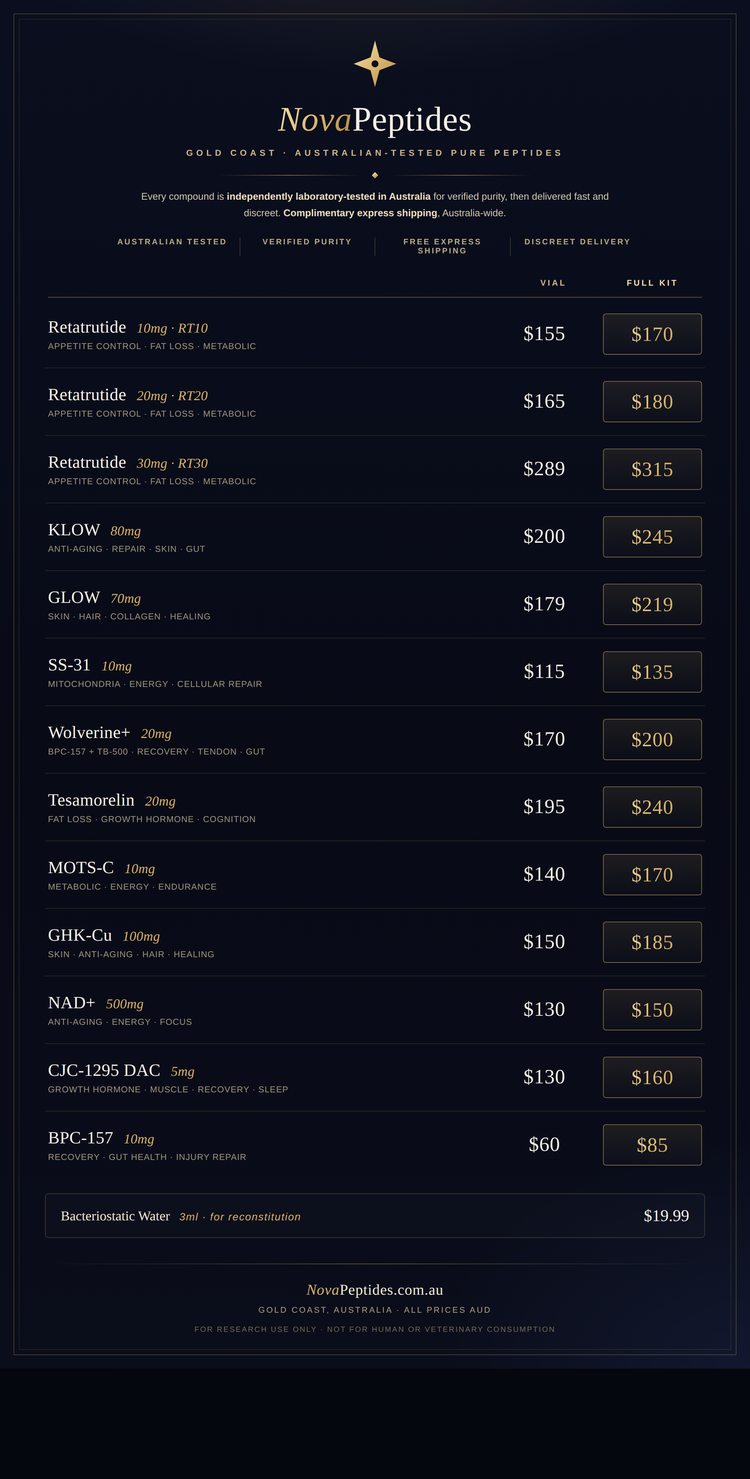
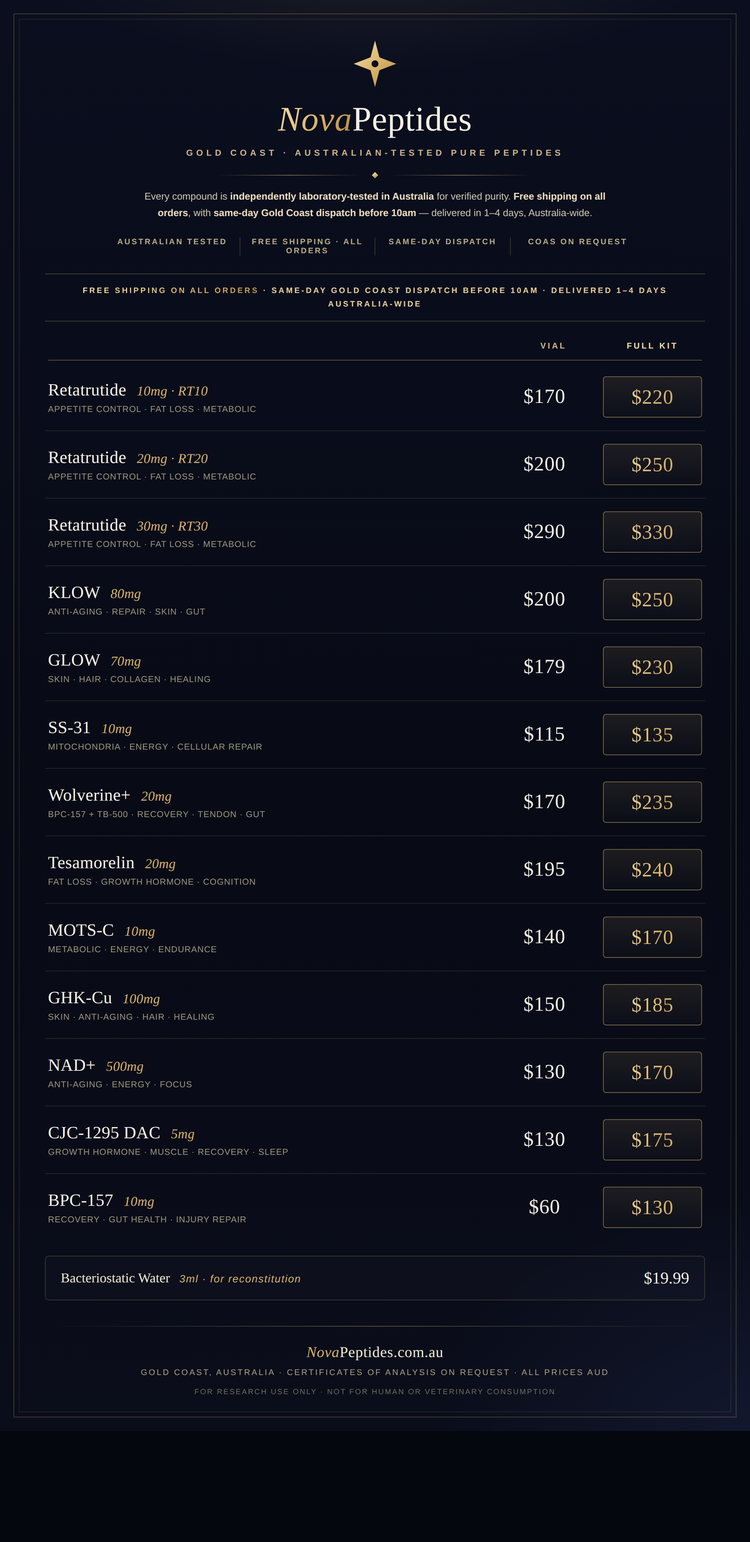
NovaPeptides: new retail pricing + luxe price form with free-shipping/dispatch/COA messaging
- Reta RT10 $170/$220, RT20 $200/$250, RT30 $290/$330
- Kit lifts: KLOW $250, GLOW $230, Wolverine+ $235, NAD+ $170, CJC $175, BPC-157 $130
- Luxe price list: free shipping all orders, same-day Gold Coast dispatch before 10am, COAs on request, 1-4 day delivery
- Propagated to dashboard, sales log, /nova catalogue, CSV and bright price list; totals recomputed

Claude-Session: https://claude.ai/code/session_011vwkpM9KQ6PKS1DsXGJwTK

diff --git a/docs/index.html b/docs/index.html
@@ -90,13 +90,13 @@
     <div class="kpis">
       <div class="kpi accent">
         <div class="label">Retail &mdash; all vials</div>
-        <div class="val">A$27,080</div>
-        <div class="sub">profit A$21,788</div>
+        <div class="val">A$27,740</div>
+        <div class="sub">profit A$22,448</div>
       </div>
       <div class="kpi accent">
         <div class="label">Retail &mdash; all kits</div>
-        <div class="val">A$31,990</div>
-        <div class="sub">profit A$22,797</div>
+        <div class="val">A$35,350</div>
+        <div class="sub">profit A$26,157</div>
       </div>
       <div class="kpi">
         <div class="label">Cost of goods (current pricing)</div>
@@ -148,33 +148,33 @@
       <h3>Reta RT30</h3>
       <div class="pcost">Peptide cost <b>A$45.00</b>/vial (shipping incl)</div>
       <div class="variant"><div class="vleft"><span class="vtag vial">Vial</span>
-        <div class="vmeta">Retail A$289 &middot; cost A$45.00 &middot; <span class="mg">84%</span></div></div>
-        <div class="vprofit"><span class="plabel">Pure profit</span>A$244.00</div></div>
+        <div class="vmeta">Retail A$290 &middot; cost A$45.00 &middot; <span class="mg">84%</span></div></div>
+        <div class="vprofit"><span class="plabel">Pure profit</span>A$245.00</div></div>
       <div class="variant"><div class="vleft"><span class="vtag kit">Kit</span>
-        <div class="vmeta">Retail A$315 &middot; cost A$67.95 (peptide + parts A$22.95) &middot; <span class="mg">78%</span></div></div>
-        <div class="vprofit"><span class="plabel">Pure profit</span>A$247.05</div></div>
+        <div class="vmeta">Retail A$330 &middot; cost A$67.95 (peptide + parts A$22.95) &middot; <span class="mg">79%</span></div></div>
+        <div class="vprofit"><span class="plabel">Pure profit</span>A$262.05</div></div>
     </div>
 
     <div class="pcard">
-      <h3>Reta RT20 <span style="font-size:11px;color:var(--violet);font-weight:800">new</span></h3>
+      <h3>Reta RT20</h3>
       <div class="pcost">Peptide cost <b>A$25.00</b>/vial (shipping incl)</div>
       <div class="variant"><div class="vleft"><span class="vtag vial">Vial</span>
-        <div class="vmeta">Retail A$165 &middot; cost A$25.00 &middot; <span class="mg">85%</span></div></div>
-        <div class="vprofit"><span class="plabel">Pure profit</span>A$140.00</div></div>
+        <div class="vmeta">Retail A$200 &middot; cost A$25.00 &middot; <span class="mg">88%</span></div></div>
+        <div class="vprofit"><span class="plabel">Pure profit</span>A$175.00</div></div>
       <div class="variant"><div class="vleft"><span class="vtag kit">Kit</span>
-        <div class="vmeta">Retail A$180 &middot; cost A$47.95 (peptide + parts A$22.95) &middot; <span class="mg">73%</span></div></div>
-        <div class="vprofit"><span class="plabel">Pure profit</span>A$132.05</div></div>
+        <div class="vmeta">Retail A$250 &middot; cost A$47.95 (peptide + parts A$22.95) &middot; <span class="mg">81%</span></div></div>
+        <div class="vprofit"><span class="plabel">Pure profit</span>A$202.05</div></div>
     </div>
 
     <div class="pcard">
       <h3>Reta RT10</h3>
       <div class="pcost">Peptide cost <b>A$14.25</b>/vial (shipping incl &middot; blended over 20)</div>
       <div class="variant"><div class="vleft"><span class="vtag vial">Vial</span>
-        <div class="vmeta">Retail A$155 &middot; cost A$14.25 &middot; <span class="mg">91%</span></div></div>
-        <div class="vprofit"><span class="plabel">Pure profit</span>A$140.75</div></div>
+        <div class="vmeta">Retail A$170 &middot; cost A$14.25 &middot; <span class="mg">92%</span></div></div>
+        <div class="vprofit"><span class="plabel">Pure profit</span>A$155.75</div></div>
       <div class="variant"><div class="vleft"><span class="vtag kit">Kit</span>
-        <div class="vmeta">Retail A$170 &middot; cost A$37.20 (peptide + parts A$22.95) &middot; <span class="mg">78%</span></div></div>
-        <div class="vprofit"><span class="plabel">Pure profit</span>A$132.80</div></div>
+        <div class="vmeta">Retail A$220 &middot; cost A$37.20 (peptide + parts A$22.95) &middot; <span class="mg">83%</span></div></div>
+        <div class="vprofit"><span class="plabel">Pure profit</span>A$182.80</div></div>
     </div>
 
     <div class="pcard">
@@ -184,8 +184,8 @@
         <div class="vmeta">Retail A$200 &middot; cost A$40.00 &middot; <span class="mg">80%</span></div></div>
         <div class="vprofit"><span class="plabel">Pure profit</span>A$160.00</div></div>
       <div class="variant"><div class="vleft"><span class="vtag kit">Kit</span>
-        <div class="vmeta">Retail A$245 &middot; cost A$62.95 (peptide + parts A$22.95) &middot; <span class="mg">74%</span></div></div>
-        <div class="vprofit"><span class="plabel">Pure profit</span>A$182.05</div></div>
+        <div class="vmeta">Retail A$250 &middot; cost A$62.95 (peptide + parts A$22.95) &middot; <span class="mg">75%</span></div></div>
+        <div class="vprofit"><span class="plabel">Pure profit</span>A$187.05</div></div>
     </div>
 
     <div class="pcard">
@@ -195,8 +195,8 @@
         <div class="vmeta">Retail A$179 &middot; cost A$35.00 &middot; <span class="mg">80%</span></div></div>
         <div class="vprofit"><span class="plabel">Pure profit</span>A$144.00</div></div>
       <div class="variant"><div class="vleft"><span class="vtag kit">Kit</span>
-        <div class="vmeta">Retail A$219 &middot; cost A$57.95 (peptide + parts A$22.95) &middot; <span class="mg">74%</span></div></div>
-        <div class="vprofit"><span class="plabel">Pure profit</span>A$161.05</div></div>
+        <div class="vmeta">Retail A$230 &middot; cost A$57.95 (peptide + parts A$22.95) &middot; <span class="mg">75%</span></div></div>
+        <div class="vprofit"><span class="plabel">Pure profit</span>A$172.05</div></div>
     </div>
 
     <div class="pcard">
@@ -217,8 +217,8 @@
         <div class="vmeta">Retail A$170 &middot; cost A$45.00 &middot; <span class="mg">74%</span></div></div>
         <div class="vprofit"><span class="plabel">Pure profit</span>A$125.00</div></div>
       <div class="variant"><div class="vleft"><span class="vtag kit">Kit</span>
-        <div class="vmeta">Retail A$200 &middot; cost A$67.95 (peptide + parts A$22.95) &middot; <span class="mg">66%</span></div></div>
-        <div class="vprofit"><span class="plabel">Pure profit</span>A$132.05</div></div>
+        <div class="vmeta">Retail A$235 &middot; cost A$67.95 (peptide + parts A$22.95) &middot; <span class="mg">71%</span></div></div>
+        <div class="vprofit"><span class="plabel">Pure profit</span>A$167.05</div></div>
     </div>
 
     <div class="pcard">
@@ -250,8 +250,8 @@
         <div class="vmeta">Retail A$130 &middot; cost A$22.50 &middot; <span class="mg">83%</span></div></div>
         <div class="vprofit"><span class="plabel">Pure profit</span>A$107.50</div></div>
       <div class="variant"><div class="vleft"><span class="vtag kit">Kit</span>
-        <div class="vmeta">Retail A$150 &middot; cost A$45.45 (peptide + parts A$22.95) &middot; <span class="mg">70%</span></div></div>
-        <div class="vprofit"><span class="plabel">Pure profit</span>A$104.55</div></div>
+        <div class="vmeta">Retail A$170 &middot; cost A$45.45 (peptide + parts A$22.95) &middot; <span class="mg">73%</span></div></div>
+        <div class="vprofit"><span class="plabel">Pure profit</span>A$124.55</div></div>
     </div>
 
     <div class="pcard">
@@ -261,8 +261,8 @@
         <div class="vmeta">Retail A$130 &middot; cost A$24.66 &middot; <span class="mg">81%</span></div></div>
         <div class="vprofit"><span class="plabel">Pure profit</span>A$105.34</div></div>
       <div class="variant"><div class="vleft"><span class="vtag kit">Kit</span>
-        <div class="vmeta">Retail A$160 &middot; cost A$47.61 (peptide + parts A$22.95) &middot; <span class="mg">70%</span></div></div>
-        <div class="vprofit"><span class="plabel">Pure profit</span>A$112.39</div></div>
+        <div class="vmeta">Retail A$175 &middot; cost A$47.61 (peptide + parts A$22.95) &middot; <span class="mg">73%</span></div></div>
+        <div class="vprofit"><span class="plabel">Pure profit</span>A$127.39</div></div>
     </div>
 
     <div class="pcard">
@@ -283,8 +283,8 @@
         <div class="vmeta">Retail A$60 &middot; cost A$18.00 &middot; <span class="mg">70%</span></div></div>
         <div class="vprofit"><span class="plabel">Pure profit</span>A$42.00</div></div>
       <div class="variant"><div class="vleft"><span class="vtag kit">Kit</span>
-        <div class="vmeta">Retail A$85 &middot; cost A$40.95 (peptide + parts A$22.95) &middot; <span class="mg">52%</span></div></div>
-        <div class="vprofit"><span class="plabel">Pure profit</span>A$44.05</div></div>
+        <div class="vmeta">Retail A$130 &middot; cost A$40.95 (peptide + parts A$22.95) &middot; <span class="mg">69%</span></div></div>
+        <div class="vprofit"><span class="plabel">Pure profit</span>A$89.05</div></div>
     </div>
 
   </div>

diff --git a/pricing/price-list-luxe.html b/pricing/price-list-luxe.html
@@ -40,8 +40,14 @@
     text-transform:uppercase;color:#b6a984;font-weight:700;padding:0 8px}
   .trust .t + .t{border-left:1px solid rgba(214,178,108,.22)}
 
+  /* shipping ribbon */
+  .ribbon{margin:24px 0 0;text-align:center;font-family:Arial,Helvetica,sans-serif;font-size:10.5px;
+    letter-spacing:2.4px;text-transform:uppercase;color:#e6cf9a;font-weight:700;
+    border-top:1px solid rgba(214,178,108,.28);border-bottom:1px solid rgba(214,178,108,.28);padding:13px 8px;line-height:1.7}
+  .ribbon .free{background:linear-gradient(120deg,#f6e2ad,#d8b26a 60%,#c49a4f);-webkit-background-clip:text;background-clip:text;color:transparent}
+
   /* column header */
-  .colh{display:flex;align-items:flex-end;margin:30px 4px 4px;padding-bottom:12px;border-bottom:1px solid rgba(214,178,108,.4)}
+  .colh{display:flex;align-items:flex-end;margin:26px 4px 4px;padding-bottom:12px;border-bottom:1px solid rgba(214,178,108,.4)}
   .colh .sp{flex:1}
   .colh .c{width:132px;text-align:center;font-family:Arial,Helvetica,sans-serif;font-size:11px;letter-spacing:2.5px;
     text-transform:uppercase;color:#cbb489;font-weight:700}
@@ -96,40 +102,43 @@
 
         <div class="rule"><span class="ln"></span><span class="dot"></span><span class="ln"></span></div>
 
-        <div class="lede">Every compound is <b>independently laboratory-tested in Australia</b> for verified purity,
-        then delivered fast and discreet. <b>Complimentary express shipping</b>, Australia-wide.</div>
+        <div class="lede">Every compound is <b>independently laboratory-tested in Australia</b> for verified purity.
+        <b>Free shipping on all orders</b>, with <b>same-day Gold Coast dispatch before 10am</b> &mdash; delivered
+        in 1&ndash;4 days, Australia-wide.</div>
 
         <div class="trust">
           <div class="t">Australian Tested</div>
-          <div class="t">Verified Purity</div>
-          <div class="t">Free Express Shipping</div>
-          <div class="t">Discreet Delivery</div>
+          <div class="t">Free Shipping &middot; All Orders</div>
+          <div class="t">Same-Day Dispatch</div>
+          <div class="t">COAs On Request</div>
         </div>
       </div>
+
+      <div class="ribbon"><span class="free">Free Shipping on All Orders</span> &middot; Same-Day Gold Coast Dispatch Before 10am &middot; Delivered 1&ndash;4 Days Australia-Wide</div>
 
       <div class="colh"><span class="sp"></span><div class="c">Vial</div><div class="c kit">Full Kit</div></div>
 
       <div class="list">
         <div class="row"><div class="info"><div class="pname">Retatrutide <span class="mg">10mg &middot; RT10</span></div><div class="pben">Appetite control &middot; fat loss &middot; metabolic</div></div>
-          <div class="prices"><div class="pcell vial"><div class="amt">$155</div></div><div class="pcell kit"><div class="amt">$170</div></div></div></div>
+          <div class="prices"><div class="pcell vial"><div class="amt">$170</div></div><div class="pcell kit"><div class="amt">$220</div></div></div></div>
 
         <div class="row"><div class="info"><div class="pname">Retatrutide <span class="mg">20mg &middot; RT20</span></div><div class="pben">Appetite control &middot; fat loss &middot; metabolic</div></div>
-          <div class="prices"><div class="pcell vial"><div class="amt">$165</div></div><div class="pcell kit"><div class="amt">$180</div></div></div></div>
+          <div class="prices"><div class="pcell vial"><div class="amt">$200</div></div><div class="pcell kit"><div class="amt">$250</div></div></div></div>
 
         <div class="row"><div class="info"><div class="pname">Retatrutide <span class="mg">30mg &middot; RT30</span></div><div class="pben">Appetite control &middot; fat loss &middot; metabolic</div></div>
-          <div class="prices"><div class="pcell vial"><div class="amt">$289</div></div><div class="pcell kit"><div class="amt">$315</div></div></div></div>
+          <div class="prices"><div class="pcell vial"><div class="amt">$290</div></div><div class="pcell kit"><div class="amt">$330</div></div></div></div>
 
         <div class="row"><div class="info"><div class="pname">KLOW <span class="mg">80mg</span></div><div class="pben">Anti-aging &middot; repair &middot; skin &middot; gut</div></div>
-          <div class="prices"><div class="pcell vial"><div class="amt">$200</div></div><div class="pcell kit"><div class="amt">$245</div></div></div></div>
+          <div class="prices"><div class="pcell vial"><div class="amt">$200</div></div><div class="pcell kit"><div class="amt">$250</div></div></div></div>
 
         <div class="row"><div class="info"><div class="pname">GLOW <span class="mg">70mg</span></div><div class="pben">Skin &middot; hair &middot; collagen &middot; healing</div></div>
-          <div class="prices"><div class="pcell vial"><div class="amt">$179</div></div><div class="pcell kit"><div class="amt">$219</div></div></div></div>
+          <div class="prices"><div class="pcell vial"><div class="amt">$179</div></div><div class="pcell kit"><div class="amt">$230</div></div></div></div>
 
         <div class="row"><div class="info"><div class="pname">SS-31 <span class="mg">10mg</span></div><div class="pben">Mitochondria &middot; energy &middot; cellular repair</div></div>
           <div class="prices"><div class="pcell vial"><div class="amt">$115</div></div><div class="pcell kit"><div class="amt">$135</div></div></div></div>
 
         <div class="row"><div class="info"><div class="pname">Wolverine+ <span class="mg">20mg</span></div><div class="pben">BPC-157 + TB-500 &middot; recovery &middot; tendon &middot; gut</div></div>
-          <div class="prices"><div class="pcell vial"><div class="amt">$170</div></div><div class="pcell kit"><div class="amt">$200</div></div></div></div>
+          <div class="prices"><div class="pcell vial"><div class="amt">$170</div></div><div class="pcell kit"><div class="amt">$235</div></div></div></div>
 
         <div class="row"><div class="info"><div class="pname">Tesamorelin <span class="mg">20mg</span></div><div class="pben">Fat loss &middot; growth hormone &middot; cognition</div></div>
           <div class="prices"><div class="pcell vial"><div class="amt">$195</div></div><div class="pcell kit"><div class="amt">$240</div></div></div></div>
@@ -141,13 +150,13 @@
           <div class="prices"><div class="pcell vial"><div class="amt">$150</div></div><div class="pcell kit"><div class="amt">$185</div></div></div></div>
 
         <div class="row"><div class="info"><div class="pname">NAD+ <span class="mg">500mg</span></div><div class="pben">Anti-aging &middot; energy &middot; focus</div></div>
-          <div class="prices"><div class="pcell vial"><div class="amt">$130</div></div><div class="pcell kit"><div class="amt">$150</div></div></div></div>
+          <div class="prices"><div class="pcell vial"><div class="amt">$130</div></div><div class="pcell kit"><div class="amt">$170</div></div></div></div>
 
         <div class="row"><div class="info"><div class="pname">CJC-1295 DAC <span class="mg">5mg</span></div><div class="pben">Growth hormone &middot; muscle &middot; recovery &middot; sleep</div></div>
-          <div class="prices"><div class="pcell vial"><div class="amt">$130</div></div><div class="pcell kit"><div class="amt">$160</div></div></div></div>
+          <div class="prices"><div class="pcell vial"><div class="amt">$130</div></div><div class="pcell kit"><div class="amt">$175</div></div></div></div>
 
         <div class="row"><div class="info"><div class="pname">BPC-157 <span class="mg">10mg</span></div><div class="pben">Recovery &middot; gut health &middot; injury repair</div></div>
-          <div class="prices"><div class="pcell vial"><div class="amt">$60</div></div><div class="pcell kit"><div class="amt">$85</div></div></div></div>
+          <div class="prices"><div class="pcell vial"><div class="amt">$60</div></div><div class="pcell kit"><div class="amt">$130</div></div></div></div>
       </div>
 
       <div class="bac"><div class="n">Bacteriostatic Water <i>3ml &middot; for reconstitution</i></div><div class="amt">$19.99</div></div>
@@ -155,7 +164,7 @@
       <div class="foot">
         <div class="ln"></div>
         <div class="site"><span class="n">Nova</span>Peptides.com.au</div>
-        <div class="meta">Gold Coast, Australia &middot; All prices AUD</div>
+        <div class="meta">Gold Coast, Australia &middot; Certificates of Analysis on request &middot; All prices AUD</div>
         <div class="ruo">For research use only &middot; Not for human or veterinary consumption</div>
       </div>
 

diff --git a/docs/nova.html b/docs/nova.html
@@ -200,44 +200,44 @@
 <script>
   // In-stock featured range (order = display order)
   const FEATURED = [
-    {n:'Retatrutide',mg:'10 / 20 / 30mg',tags:[['Fat loss','p-amber'],['Appetite','p-amber'],['Metabolic','p-amber']],vial:'from $155',kit:'from $170'},
+    {n:'Retatrutide',mg:'10 / 20 / 30mg',tags:[['Fat loss','p-amber'],['Appetite','p-amber'],['Metabolic','p-amber']],vial:'from $170',kit:'from $220'},
     {n:'Tesamorelin',mg:'20mg',tags:[['Fat loss','p-amber'],['Growth hormone','p-ind'],['Cognition','p-ind']],vial:'$195',kit:'$240'},
-    {n:'Wolverine+',mg:'20mg · BPC+TB',tags:[['Recovery','p-green'],['Injury repair','p-green'],['Tendon','p-green']],vial:'$170',kit:'$200'},
+    {n:'Wolverine+',mg:'20mg · BPC+TB',tags:[['Recovery','p-green'],['Injury repair','p-green'],['Tendon','p-green']],vial:'$170',kit:'$235'},
     {n:'GHK-Cu',mg:'100mg',tags:[['Skin','p-pink'],['Anti-aging','p-pink'],['Healing','p-green']],vial:'$150',kit:'$185'},
-    {n:'KLOW',mg:'80mg blend',tags:[['Anti-aging','p-pink'],['Repair','p-green'],['Gut health','p-green']],vial:'$200',kit:'$245'},
-    {n:'GLOW',mg:'70mg blend',tags:[['Skin','p-pink'],['Hair','p-pink'],['Collagen','p-pink']],vial:'$179',kit:'$219'},
+    {n:'KLOW',mg:'80mg blend',tags:[['Anti-aging','p-pink'],['Repair','p-green'],['Gut health','p-green']],vial:'$200',kit:'$250'},
+    {n:'GLOW',mg:'70mg blend',tags:[['Skin','p-pink'],['Hair','p-pink'],['Collagen','p-pink']],vial:'$179',kit:'$230'},
     {n:'MOTS-C',mg:'10mg',tags:[['Metabolic','p-amber'],['Energy','p-teal'],['Endurance','p-amber']],vial:'$140',kit:'$170'},
-    {n:'CJC-1295 DAC',mg:'5mg',tags:[['Growth hormone','p-ind'],['Muscle','p-green'],['Sleep','p-ind']],vial:'$130',kit:'$160'},
-    {n:'NAD+',mg:'500mg',tags:[['Anti-aging','p-pink'],['Energy','p-teal'],['Focus','p-ind']],vial:'$130',kit:'$150'},
+    {n:'CJC-1295 DAC',mg:'5mg',tags:[['Growth hormone','p-ind'],['Muscle','p-green'],['Sleep','p-ind']],vial:'$130',kit:'$175'},
+    {n:'NAD+',mg:'500mg',tags:[['Anti-aging','p-pink'],['Energy','p-teal'],['Focus','p-ind']],vial:'$130',kit:'$170'},
     {n:'SS-31',mg:'10mg',tags:[['Mitochondria','p-teal'],['Energy','p-teal'],['Cellular repair','p-teal']],vial:'$115',kit:'$135'},
-    {n:'BPC-157',mg:'10mg',tags:[['Recovery','p-green'],['Gut health','p-green'],['Injury repair','p-green']],vial:'$60',kit:'$85'},
+    {n:'BPC-157',mg:'10mg',tags:[['Recovery','p-green'],['Gut health','p-green'],['Injury repair','p-green']],vial:'$60',kit:'$130'},
   ]
 
   // Full catalogue. stock:'in' shows a price; stock:'ask' = we can source.
   const CAT = [
-    {n:'Retatrutide',aka:'RT10 / RT20 / RT30 · GLP-1/GIP/glucagon',cat:'Weight & metabolic',stock:'in',price:'Vial from $155 · Kit from $170',
+    {n:'Retatrutide',aka:'RT10 / RT20 / RT30 · GLP-1/GIP/glucagon',cat:'Weight & metabolic',stock:'in',price:'Vial from $170 · Kit from $220',
       info:'Triple-receptor agonist researched for strong appetite suppression, fat loss and metabolic control — the current standout in the weight category.',tags:[['Fat loss','p-amber'],['Appetite','p-amber'],['Metabolic','p-amber']]},
     {n:'Tesamorelin',aka:'GHRH analogue',cat:'Growth hormone',stock:'in',price:'Vial $195 · Kit $240',
       info:'A growth-hormone releasing hormone studied for reducing visceral (belly) fat, plus cognition and body-composition support.',tags:[['Fat loss','p-amber'],['Growth hormone','p-ind'],['Cognition','p-ind']]},
-    {n:'Wolverine+',aka:'BPC-157 + TB-500 stack · 20mg',cat:'Recovery & healing',stock:'in',price:'Vial $170 · Kit $200',
+    {n:'Wolverine+',aka:'BPC-157 + TB-500 stack · 20mg',cat:'Recovery & healing',stock:'in',price:'Vial $170 · Kit $235',
       info:'Our combined recovery stack — BPC-157 and TB-500 together, researched for accelerated soft-tissue, tendon and gut healing.',tags:[['Recovery','p-green'],['Injury repair','p-green'],['Tendon','p-green'],['Gut','p-green']]},
-    {n:'BPC-157',aka:'Body Protection Compound',cat:'Recovery & healing',stock:'in',price:'Vial $60 · Kit $85',
+    {n:'BPC-157',aka:'Body Protection Compound',cat:'Recovery & healing',stock:'in',price:'Vial $60 · Kit $130',
       info:'One of the most popular healing peptides — researched for gut repair, tendon and ligament recovery and reduced inflammation.',tags:[['Recovery','p-green'],['Gut health','p-green'],['Injury repair','p-green']]},
     {n:'TB-500',aka:'Thymosin Beta-4 fragment',cat:'Recovery & healing',stock:'ask',price:'Available inside the Wolverine+ stack — ask for standalone',
       info:'Works alongside BPC-157 for recovery — researched for flexibility, wound healing and reduced injury downtime.',tags:[['Recovery','p-green'],['Injury repair','p-green'],['Flexibility','p-green']]},
     {n:'GHK-Cu',aka:'Copper peptide',cat:'Skin & anti-aging',stock:'in',price:'Vial $150 · Kit $185',
       info:'Copper peptide prized in skin and anti-aging research — collagen support, hair, wound healing and a smoother complexion.',tags:[['Skin','p-pink'],['Anti-aging','p-pink'],['Hair','p-pink'],['Healing','p-green']]},
-    {n:'KLOW',aka:'GHK-Cu · KPV · BPC · TB blend',cat:'Skin & anti-aging',stock:'in',price:'Vial $200 · Kit $245',
+    {n:'KLOW',aka:'GHK-Cu · KPV · BPC · TB blend',cat:'Skin & anti-aging',stock:'in',price:'Vial $200 · Kit $250',
       info:'A premium multi-peptide blend for anti-aging, skin, repair and gut health in a single vial.',tags:[['Anti-aging','p-pink'],['Repair','p-green'],['Skin','p-pink'],['Gut health','p-green']]},
-    {n:'GLOW',aka:'GHK-Cu · BPC · TB blend',cat:'Skin & anti-aging',stock:'in',price:'Vial $179 · Kit $219',
+    {n:'GLOW',aka:'GHK-Cu · BPC · TB blend',cat:'Skin & anti-aging',stock:'in',price:'Vial $179 · Kit $230',
       info:'The beauty blend — researched for skin, hair, collagen and healing.',tags:[['Skin','p-pink'],['Hair','p-pink'],['Healing','p-green'],['Collagen','p-pink']]},
     {n:'MOTS-C',aka:'Mitochondrial peptide',cat:'Weight & metabolic',stock:'in',price:'Vial $140 · Kit $170',
       info:'A mitochondrial-derived peptide researched for metabolism, energy, insulin sensitivity and endurance.',tags:[['Metabolic','p-amber'],['Energy','p-teal'],['Endurance','p-amber']]},
     {n:'SS-31',aka:'Elamipretide',cat:'Longevity & cellular',stock:'in',price:'Vial $115 · Kit $135',
       info:'Targets the mitochondria — researched for cellular energy, oxidative-stress protection and recovery.',tags:[['Mitochondria','p-teal'],['Energy','p-teal'],['Cellular repair','p-teal']]},
-    {n:'NAD+',aka:'Nicotinamide adenine dinucleotide',cat:'Longevity & cellular',stock:'in',price:'Vial $130 · Kit $150',
+    {n:'NAD+',aka:'Nicotinamide adenine dinucleotide',cat:'Longevity & cellular',stock:'in',price:'Vial $130 · Kit $170',
       info:'A key cellular coenzyme researched for energy, DNA repair, focus and healthy aging.',tags:[['Anti-aging','p-pink'],['Energy','p-teal'],['Focus','p-ind']]},
-    {n:'CJC-1295 DAC',aka:'GHRH analogue',cat:'Growth hormone',stock:'in',price:'Vial $130 · Kit $160',
+    {n:'CJC-1295 DAC',aka:'GHRH analogue',cat:'Growth hormone',stock:'in',price:'Vial $130 · Kit $175',
       info:'A long-acting growth-hormone releasing peptide researched for muscle, recovery, fat loss and sleep — great paired with Ipamorelin.',tags:[['Growth hormone','p-ind'],['Muscle','p-green'],['Recovery','p-green'],['Sleep','p-ind']]},
 
     {n:'Tirzepatide',aka:'Mounjaro · GLP-1/GIP',cat:'Weight & metabolic',stock:'ask',

diff --git a/pricing/price-list-v2.html b/pricing/price-list-v2.html
@@ -126,23 +126,23 @@
       <div class="phead"><span class="sp"></span><div class="prices"><div class="hc">Vial</div><div class="hc hk">Full kit</div></div></div>
       <div class="prow"><div class="pinfo"><div class="pname">Retatrutide <span class="mg">10mg &middot; RT10</span></div>
         <div class="pills"><span class="pill2 p-amber">Fat loss</span><span class="pill2 p-amber">Appetite control</span><span class="pill2 p-amber">Beginner dose</span></div></div>
-        <div class="prices"><div class="pbox"><div class="pr">$155</div></div><div class="pbox kit2"><div class="pr">$170</div></div></div></div>
+        <div class="prices"><div class="pbox"><div class="pr">$170</div></div><div class="pbox kit2"><div class="pr">$220</div></div></div></div>
 
       <div class="prow"><div class="pinfo"><div class="pname">Retatrutide <span class="mg">20mg &middot; RT20</span></div>
         <div class="pills"><span class="pill2 p-amber">Fat loss</span><span class="pill2 p-amber">Appetite control</span><span class="pill2 p-amber">Metabolic</span></div></div>
-        <div class="prices"><div class="pbox"><div class="pr">$165</div></div><div class="pbox kit2"><div class="pr">$180</div></div></div></div>
+        <div class="prices"><div class="pbox"><div class="pr">$200</div></div><div class="pbox kit2"><div class="pr">$250</div></div></div></div>
 
       <div class="prow"><div class="pinfo"><div class="pname">Retatrutide <span class="mg">30mg &middot; RT30</span></div>
         <div class="pills"><span class="pill2 p-amber">Fat loss</span><span class="pill2 p-amber">Appetite control</span><span class="pill2 p-amber">Metabolic</span></div></div>
-        <div class="prices"><div class="pbox"><div class="pr">$289</div></div><div class="pbox kit2"><div class="pr">$315</div></div></div></div>
+        <div class="prices"><div class="pbox"><div class="pr">$290</div></div><div class="pbox kit2"><div class="pr">$330</div></div></div></div>
 
       <div class="prow"><div class="pinfo"><div class="pname">KLOW <span class="mg">80mg</span></div>
         <div class="pills"><span class="pill2 p-pink">Anti-aging</span><span class="pill2 p-green">Repair</span><span class="pill2 p-pink">Skin</span><span class="pill2 p-green">Gut health</span></div></div>
-        <div class="prices"><div class="pbox"><div class="pr">$200</div></div><div class="pbox kit2"><div class="pr">$245</div></div></div></div>
+        <div class="prices"><div class="pbox"><div class="pr">$200</div></div><div class="pbox kit2"><div class="pr">$250</div></div></div></div>
 
       <div class="prow"><div class="pinfo"><div class="pname">GLOW <span class="mg">70mg</span></div>
         <div class="pills"><span class="pill2 p-pink">Skin</span><span class="pill2 p-pink">Hair</span><span class="pill2 p-green">Healing</span><span class="pill2 p-pink">Collagen</span></div></div>
-        <div class="prices"><div class="pbox"><div class="pr">$179</div></div><div class="pbox kit2"><div class="pr">$219</div></div></div></div>
+        <div class="prices"><div class="pbox"><div class="pr">$179</div></div><div class="pbox kit2"><div class="pr">$230</div></div></div></div>
 
       <div class="prow"><div class="pinfo"><div class="pname">SS-31 <span class="mg">10mg</span></div>
         <div class="pills"><span class="pill2 p-teal">Mitochondria</span><span class="pill2 p-teal">Energy</span><span class="pill2 p-teal">Cellular repair</span></div></div>
@@ -150,7 +150,7 @@
 
       <div class="prow"><div class="pinfo"><div class="pname">Wolverine+ <span class="mg">20mg</span><span class="nick">BPC-157 + TB-500</span></div>
         <div class="pills"><span class="pill2 p-green">Recovery</span><span class="pill2 p-green">Injury repair</span><span class="pill2 p-green">Gut health</span><span class="pill2 p-green">Tendon</span></div></div>
-        <div class="prices"><div class="pbox"><div class="pr">$170</div></div><div class="pbox kit2"><div class="pr">$200</div></div></div></div>
+        <div class="prices"><div class="pbox"><div class="pr">$170</div></div><div class="pbox kit2"><div class="pr">$235</div></div></div></div>
 
       <div class="prow"><div class="pinfo"><div class="pname">Tesamorelin <span class="mg">20mg</span></div>
         <div class="pills"><span class="pill2 p-amber">Fat loss</span><span class="pill2 p-ind">Growth hormone</span><span class="pill2 p-ind">Cognition</span></div></div>
@@ -162,7 +162,7 @@
 
       <div class="prow"><div class="pinfo"><div class="pname">NAD+ <span class="mg">500mg</span></div>
         <div class="pills"><span class="pill2 p-pink">Anti-aging</span><span class="pill2 p-teal">Energy</span><span class="pill2 p-ind">Focus</span></div></div>
-        <div class="prices"><div class="pbox"><div class="pr">$130</div></div><div class="pbox kit2"><div class="pr">$150</div></div></div></div>
+        <div class="prices"><div class="pbox"><div class="pr">$130</div></div><div class="pbox kit2"><div class="pr">$170</div></div></div></div>
 
       <div class="prow"><div class="pinfo"><div class="pname">GHK-Cu <span class="mg">100mg</span></div>
         <div class="pills"><span class="pill2 p-pink">Skin</span><span class="pill2 p-pink">Anti-aging</span><span class="pill2 p-pink">Hair</span><span class="pill2 p-green">Healing</span></div></div>
@@ -170,11 +170,11 @@
 
       <div class="prow"><div class="pinfo"><div class="pname">BPC-157 <span class="mg">10mg</span></div>
         <div class="pills"><span class="pill2 p-green">Recovery</span><span class="pill2 p-green">Gut health</span><span class="pill2 p-green">Injury repair</span></div></div>
-        <div class="prices"><div class="pbox"><div class="pr">$60</div></div><div class="pbox kit2"><div class="pr">$85</div></div></div></div>
+        <div class="prices"><div class="pbox"><div class="pr">$60</div></div><div class="pbox kit2"><div class="pr">$130</div></div></div></div>
 
       <div class="prow"><div class="pinfo"><div class="pname">CJC-1295 DAC <span class="mg">5mg</span></div>
         <div class="pills"><span class="pill2 p-ind">Growth hormone</span><span class="pill2 p-green">Muscle</span><span class="pill2 p-green">Recovery</span><span class="pill2 p-ind">Sleep</span></div></div>
-        <div class="prices"><div class="pbox"><div class="pr">$130</div></div><div class="pbox kit2"><div class="pr">$160</div></div></div></div>
+        <div class="prices"><div class="pbox"><div class="pr">$130</div></div><div class="pbox kit2"><div class="pr">$175</div></div></div></div>
     </div>
 
     <div class="bac"><div class="n">Bacteriostatic Water <span>3ml &middot; for reconstitution</span></div><div class="pr">$19.99</div></div>

diff --git a/docs/nova-sales.html b/docs/nova-sales.html
@@ -193,19 +193,19 @@
 
 <script>
   const PRODUCTS = [
-    {name:'Reta RT30 — Vial',price:289,cost:45.00},{name:'Reta RT30 — Full Kit',price:315,cost:67.95},
-    {name:'Reta RT20 — Vial',price:165,cost:25.00},{name:'Reta RT20 — Kit',price:180,cost:47.95},
-    {name:'Reta RT10 — Vial',price:155,cost:14.25},{name:'Reta RT10 — Kit',price:170,cost:37.20},
-    {name:'KLOW 80mg — Vial',price:200,cost:40.00},{name:'KLOW 80mg — Full Kit',price:245,cost:62.95},
-    {name:'GLOW 70mg — Vial',price:179,cost:35.00},{name:'GLOW 70mg — Full Kit',price:219,cost:57.95},
+    {name:'Reta RT30 — Vial',price:290,cost:45.00},{name:'Reta RT30 — Full Kit',price:330,cost:67.95},
+    {name:'Reta RT20 — Vial',price:200,cost:25.00},{name:'Reta RT20 — Kit',price:250,cost:47.95},
+    {name:'Reta RT10 — Vial',price:170,cost:14.25},{name:'Reta RT10 — Kit',price:220,cost:37.20},
+    {name:'KLOW 80mg — Vial',price:200,cost:40.00},{name:'KLOW 80mg — Full Kit',price:250,cost:62.95},
+    {name:'GLOW 70mg — Vial',price:179,cost:35.00},{name:'GLOW 70mg — Full Kit',price:230,cost:57.95},
     {name:'Tesamorelin 20mg — Vial',price:195,cost:55.00},{name:'Tesamorelin 20mg — Kit',price:240,cost:77.95},
-    {name:'Wolverine+ 20mg — Vial',price:170,cost:45.00},{name:'Wolverine+ 20mg — Kit',price:200,cost:67.95},
+    {name:'Wolverine+ 20mg — Vial',price:170,cost:45.00},{name:'Wolverine+ 20mg — Kit',price:235,cost:67.95},
     {name:'GHK-Cu 100mg — Vial',price:150,cost:26.00},{name:'GHK-Cu 100mg — Kit',price:185,cost:48.95},
     {name:'MOTS-C 10mg — Vial',price:140,cost:24.00},{name:'MOTS-C 10mg — Kit',price:170,cost:46.95},
-    {name:'NAD+ 500mg — Vial',price:130,cost:22.50},{name:'NAD+ 500mg — Kit',price:150,cost:45.45},
-    {name:'CJC-1295 DAC 5mg — Vial',price:130,cost:24.66},{name:'CJC-1295 DAC 5mg — Kit',price:160,cost:47.61},
+    {name:'NAD+ 500mg — Vial',price:130,cost:22.50},{name:'NAD+ 500mg — Kit',price:170,cost:45.45},
+    {name:'CJC-1295 DAC 5mg — Vial',price:130,cost:24.66},{name:'CJC-1295 DAC 5mg — Kit',price:175,cost:47.61},
     {name:'SS-31 10mg — Vial',price:115,cost:37.00},{name:'SS-31 10mg — Full Kit',price:135,cost:59.95},
-    {name:'BPC-157 10mg — Vial',price:60,cost:18.00},{name:'BPC-157 10mg — Kit',price:85,cost:40.95},
+    {name:'BPC-157 10mg — Vial',price:60,cost:18.00},{name:'BPC-157 10mg — Kit',price:130,cost:40.95},
     {name:'BAC Water 3ml',price:19.99,cost:1.12},{name:'Custom / other',price:'',cost:''},
   ]
   const $ = id => document.getElementById(id)
